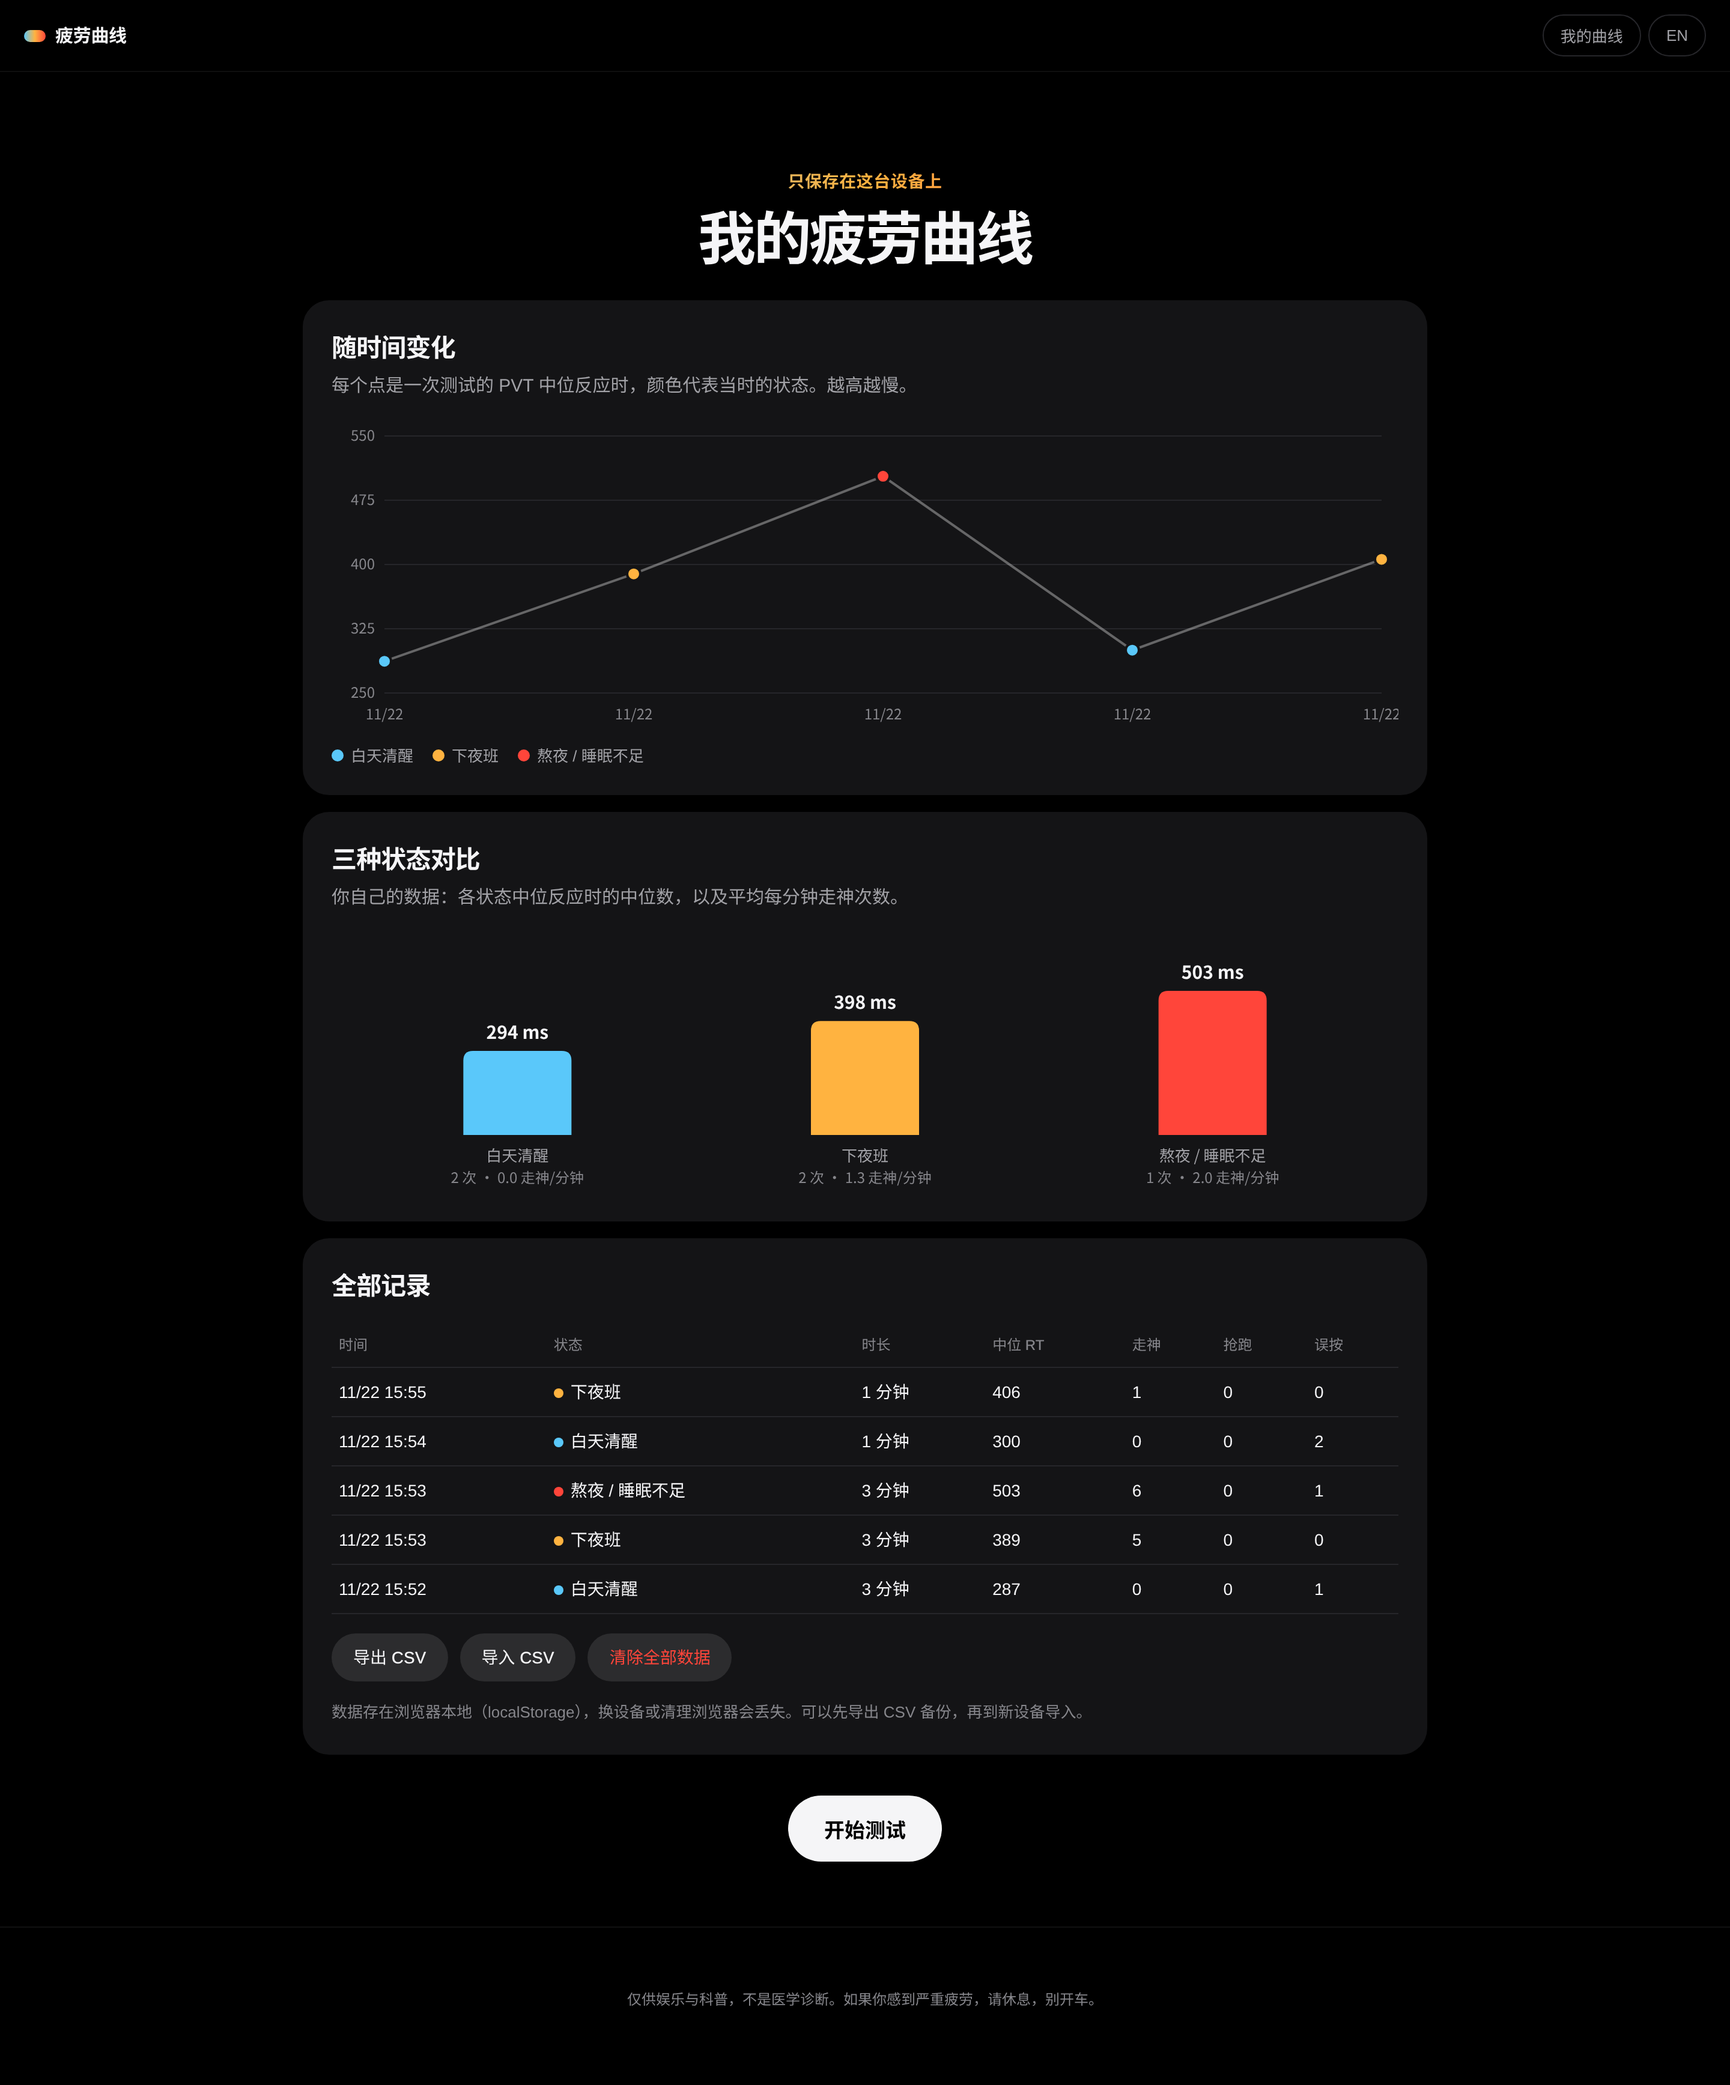
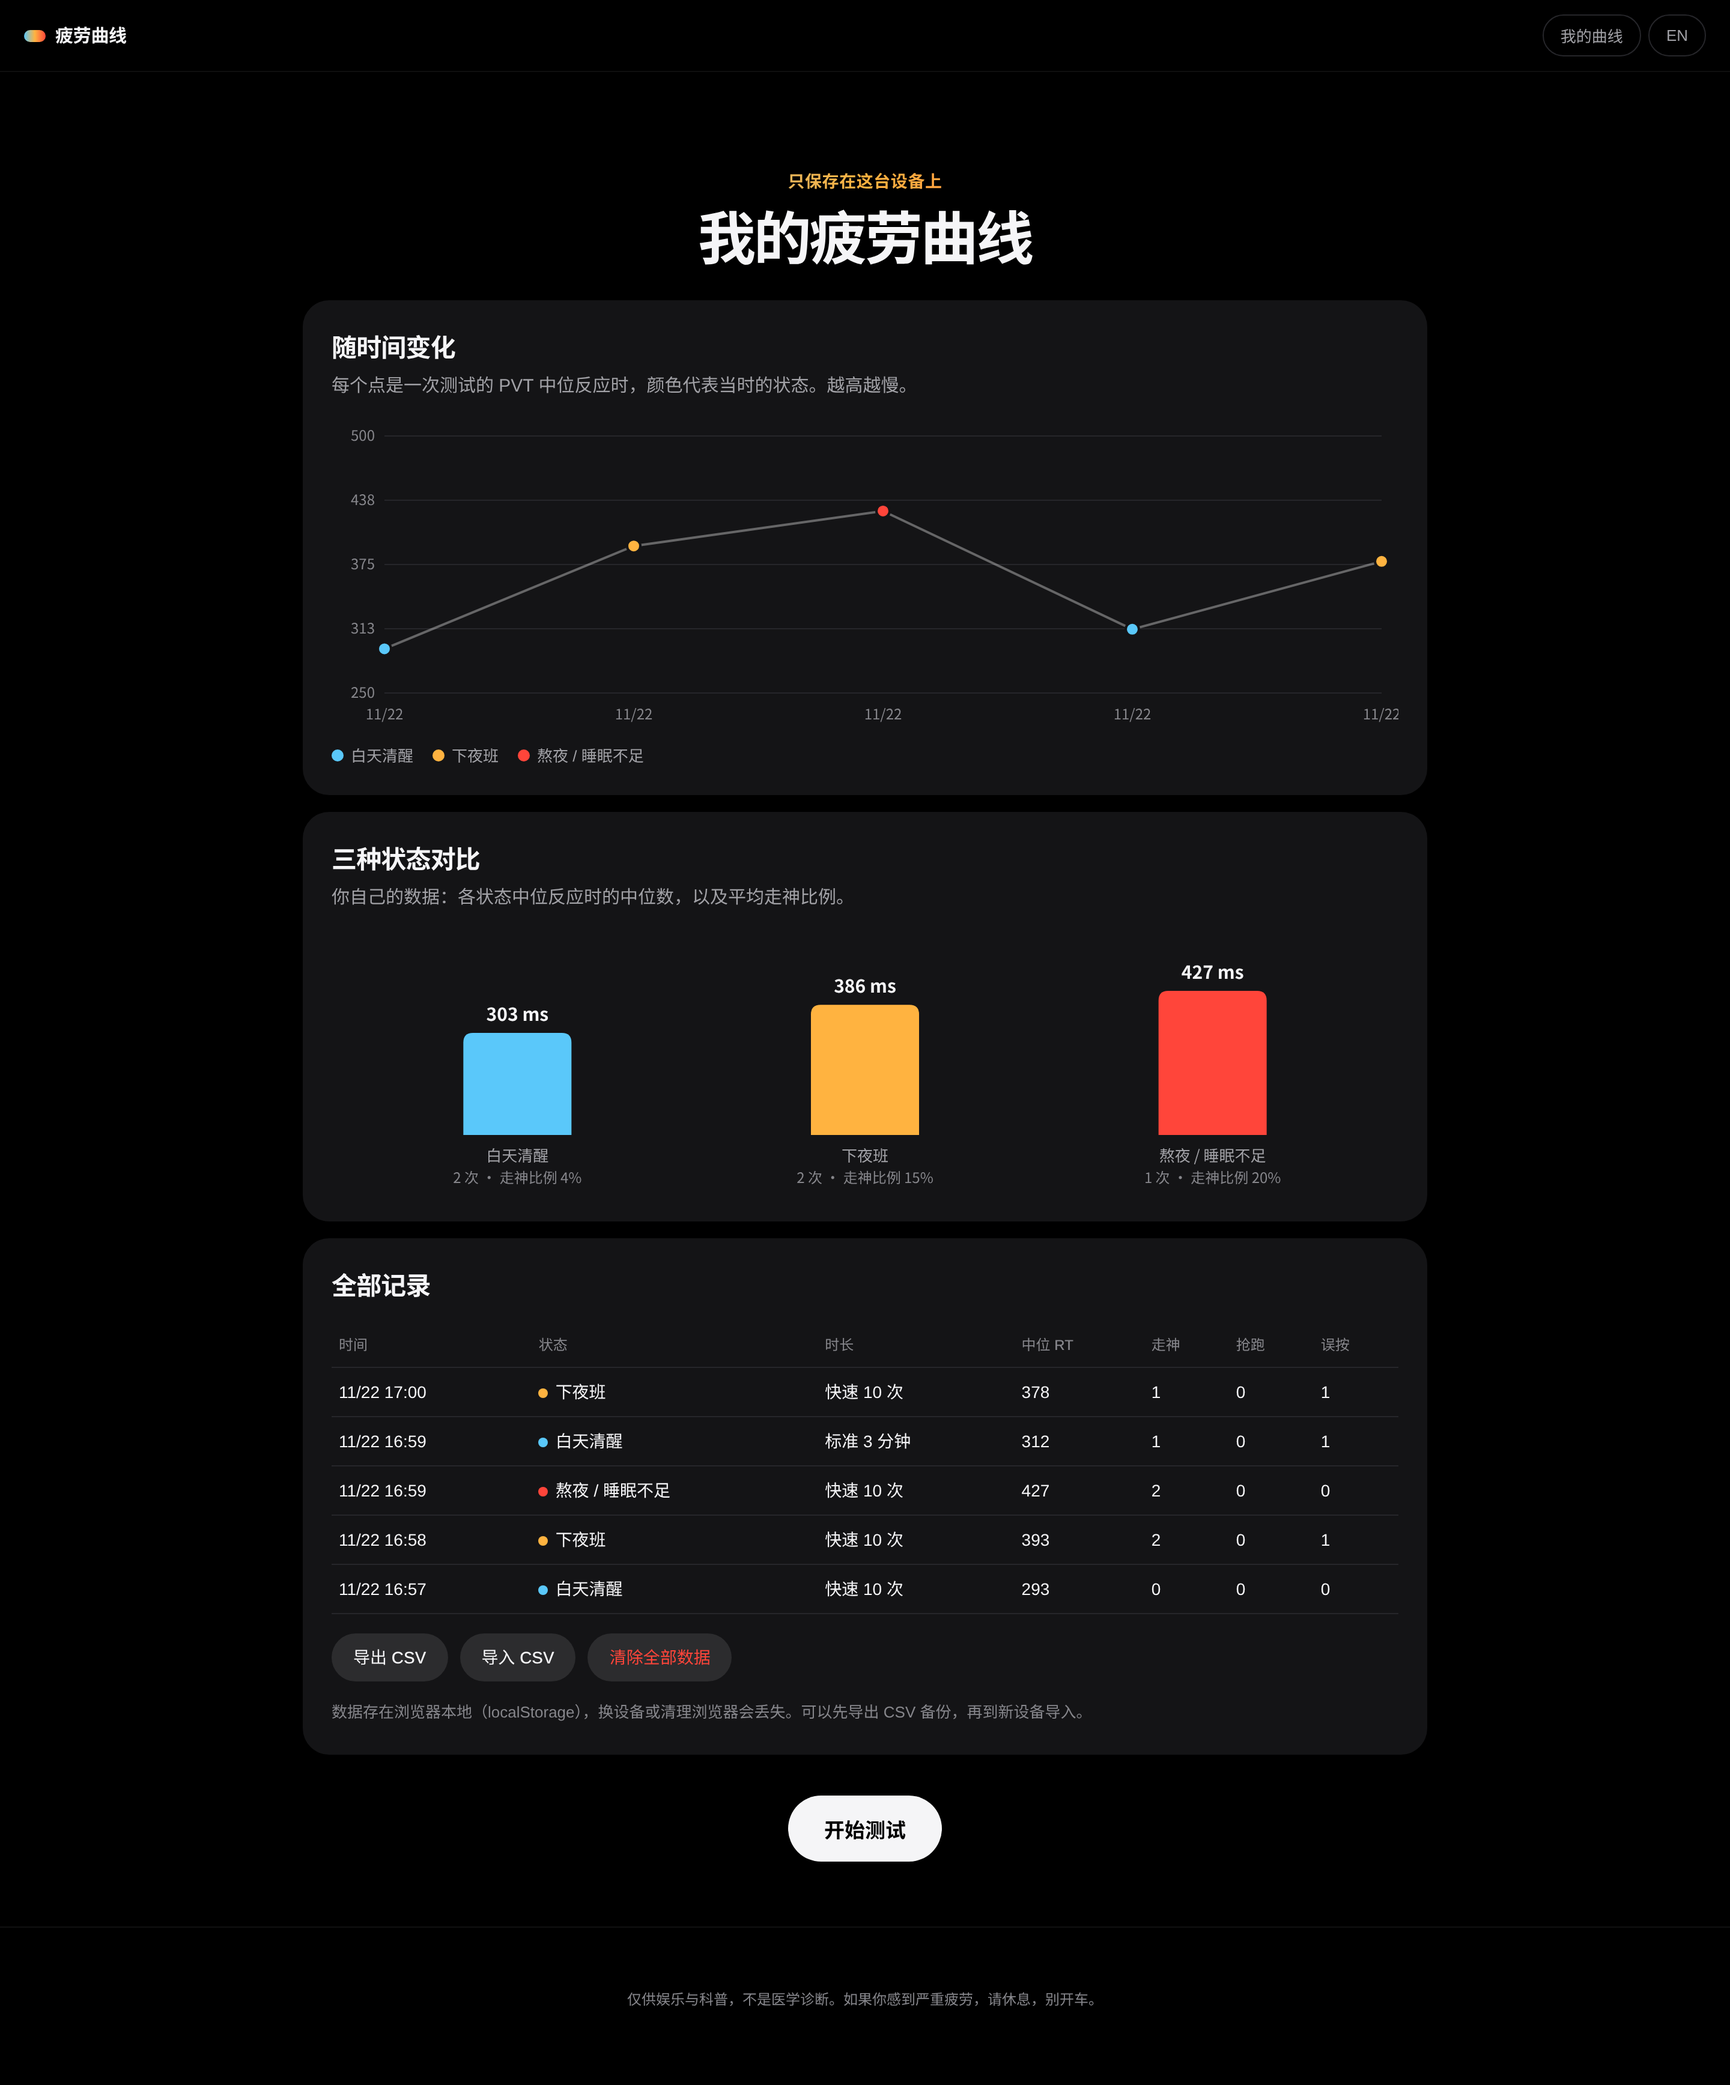
Shorter default test (10-trial PVT + 20-trial Go/No-Go), A–D reference grade from published PVT data, docs

diff --git a/README.md b/README.md
@@ -16,16 +16,45 @@ A single-page, bilingual (中文 / English) vigilance test that uses the **Psych
 
 ## How it works
 
+The whole test takes about 1.5 minutes by default.
+
 1. **Pick your state:** 白天清醒 rested daytime · 下夜班 post night shift · 熬夜/睡眠不足 short on sleep.
-2. **Level 1, PVT (3 min, or a quick 1 min):** a running millisecond counter appears after a random 2–10 s wait. Respond with **Space** or a **tap**.
-   - *Lapse*: RT ≥ 500 ms (30 s timeout).
-   - *False start*: a press before the stimulus, or an RT under 100 ms.
-3. **Level 2, Go/No-Go:** green circle = press, red square = hold back (~20% No-Go). The page records commission errors (pressing on No-Go), omissions and Go RT.
-4. **Result:** median and mean RT, lapses, false starts, slowest 10% mean, No-Go errors, and an **RT histogram** that shows the slow tail.
+2. **Level 1, PVT:** a running millisecond counter appears at a random moment. Respond with **Space** or a **tap**.
+   - **Quick (default):** 10 trials with random 2–5 s waits, about 50 s.
+   - **Standard:** 3 minutes with random 2–10 s waits.
+   - *Lapse*: RT ≥ 500 ms (30 s timeout). *False start*: a press before the stimulus, or an RT under 100 ms.
+3. **Level 2, Go/No-Go:** 20 trials (30 in standard mode), about 30 s. Green circle = press, red square = hold back (20% No-Go). The page records commission errors, omissions and Go RT.
+4. **Result:**
+   - An **A–D reference grade** based on published data (see below).
+   - Median and mean RT, lapses and lapse rate, false starts, slowest 10% mean, No-Go errors.
+   - An **RT histogram** that shows the slow tail.
 5. **My curve:** history lives in `localStorage` and is shown as a curve over time plus a comparison of the three states. You can export, import or clear it as **CSV**.
 6. **Optional, opt-in anonymous submission** to Supabase. The community comparison shows **only real aggregates** from the database. Any state with fewer than 20 samples shows “样本不足 / Not enough data”.
 
-No build step and no dependencies: everything is in one `index.html`.
+### Why 10 trials?
+
+The quick mode is a usability trade-off. With 5 trials a single slow response would already be a 20% lapse rate, so lapses would be close to meaningless. Ten trials give 10% resolution and still finish in under a minute.
+
+Shorter tests are less sensitive. The validated 3-minute PVT-B cut duration by 70% and lost about 23% of effect size on average (Basner, Mollicone & Dinges 2011). This quick mode is shorter still and has **not** been validated, so the 3-minute mode is there for more careful comparisons.
+
+The lapse threshold stays at the standard 500 ms so lapse rates are comparable with the reference data below. PVT-B itself recommends 355 ms for its 3-minute format.
+
+## Reference grade (A–D)
+
+The grade is the **worse** of two sub-grades. The band edges are this page's own choice, derived from the mean ± SD reported by Sun et al. 2020: rested median RT 326.7 ± 33.3 ms and lapse ratio 2.5% ± 3.6%; after 24 h awake, 369.7 ± 55.7 ms and 17.4% ± 15.0% (7-min PVT, lapse > 500 ms).
+
+| Grade | Median RT | Lapse rate | Meaning |
+|---|---|---|---|
+| A | ≤ 293 ms (rested mean − 1 SD) | 0% | Faster than well-rested adults in the source |
+| B | ≤ 360 ms (rested mean + 1 SD) | ≤ 6.1% (rested mean + 1 SD) | Typical well-rested range |
+| C | ≤ 425 ms (24 h awake mean + 1 SD) | ≤ 17.4% (24 h awake mean) | Slower than rested, near the 24 h-awake average |
+| D | > 425 ms | > 17.4% | Beyond the typical 24 h-awake range |
+
+Other context shown on the page:
+- Mah et al. 2011: college basketball players' PVT median RT went from 287.6 ± 65.9 ms at baseline to 261.4 ± 35.8 ms after weeks of sleep extension (weekly PVT, Table 3).
+- Human Benchmark: across about 81 million web clicks, the median click reaction time is 273 ms (a simple click task, not a PVT). The site estimates about 30 ms of typical desktop display and input lag and notes that mobile taps tend to be slower.
+
+**Caveats:** this is a rough reference, not a diagnosis. The norms come from lab or computer PVTs with different durations, hardware and populations. Browsers, screens and touchscreens add latency, so phone results usually run slower. Compare yourself on the same device.
 
 ## Privacy
 
@@ -40,12 +69,15 @@ Database design ([`supabase/schema.sql`](supabase/schema.sql)):
 ## Science
 
 - The PVT is a simple reaction-time task that is very sensitive to sleep loss and has minimal learning effects. Fatigue shows up less as a uniformly slower RT and more as **lapses** and a longer **slow tail**.
-- This page uses shortened 3- and 1-minute versions. The standard PVT lasts 10 minutes, and a validated 3-minute PVT-B exists, but its parameters differ from this page.
+- Basner & Dinges 2011 found that lapse- and response-speed metrics are the most sensitive PVT outcomes. Mean and median RT were less sensitive, and the page shows both kinds of metric.
 
-References:
+References (all checked against Crossref or Europe PMC):
 1. Dinges DF, Powell JW. Microcomputer analyses of performance on a portable, simple visual RT task during sustained operations. *Behavior Research Methods, Instruments, & Computers*. 1985;17:652–655. doi:[10.3758/BF03200977](https://doi.org/10.3758/BF03200977)
 2. Basner M, Dinges DF. Maximizing sensitivity of the Psychomotor Vigilance Test (PVT) to sleep loss. *Sleep*. 2011;34(5):581–591. doi:[10.1093/sleep/34.5.581](https://doi.org/10.1093/sleep/34.5.581)
 3. Basner M, Mollicone D, Dinges DF. Validity and sensitivity of a brief psychomotor vigilance test (PVT-B) to total and partial sleep deprivation. *Acta Astronautica*. 2011;69:949–959. doi:[10.1016/j.actaastro.2011.07.015](https://doi.org/10.1016/j.actaastro.2011.07.015)
+4. Sun J, Zhao R, Yang X, Deng H, Zhu Y, Chen Y, et al. Alteration of brain gray matter density after 24 h of sleep deprivation in healthy adults. *Frontiers in Neuroscience*. 2020;14:754. doi:[10.3389/fnins.2020.00754](https://doi.org/10.3389/fnins.2020.00754) (Table 1)
+5. Mah CD, Mah KE, Kezirian EJ, Dement WC. The effects of sleep extension on the athletic performance of collegiate basketball players. *Sleep*. 2011;34(7):943–950. doi:[10.5665/SLEEP.1132](https://doi.org/10.5665/SLEEP.1132) (Table 3)
+6. Human Benchmark. Reaction Time Statistics. https://humanbenchmark.com/tests/reactiontime/statistics (accessed 2026-11-22)
 
 > **Disclaimer:** this is for entertainment and education only and is not a medical diagnosis. Browser timing varies across devices (display refresh, input latency), so compare results on the same device. If you feel seriously tired, rest, and don't drive.
 
